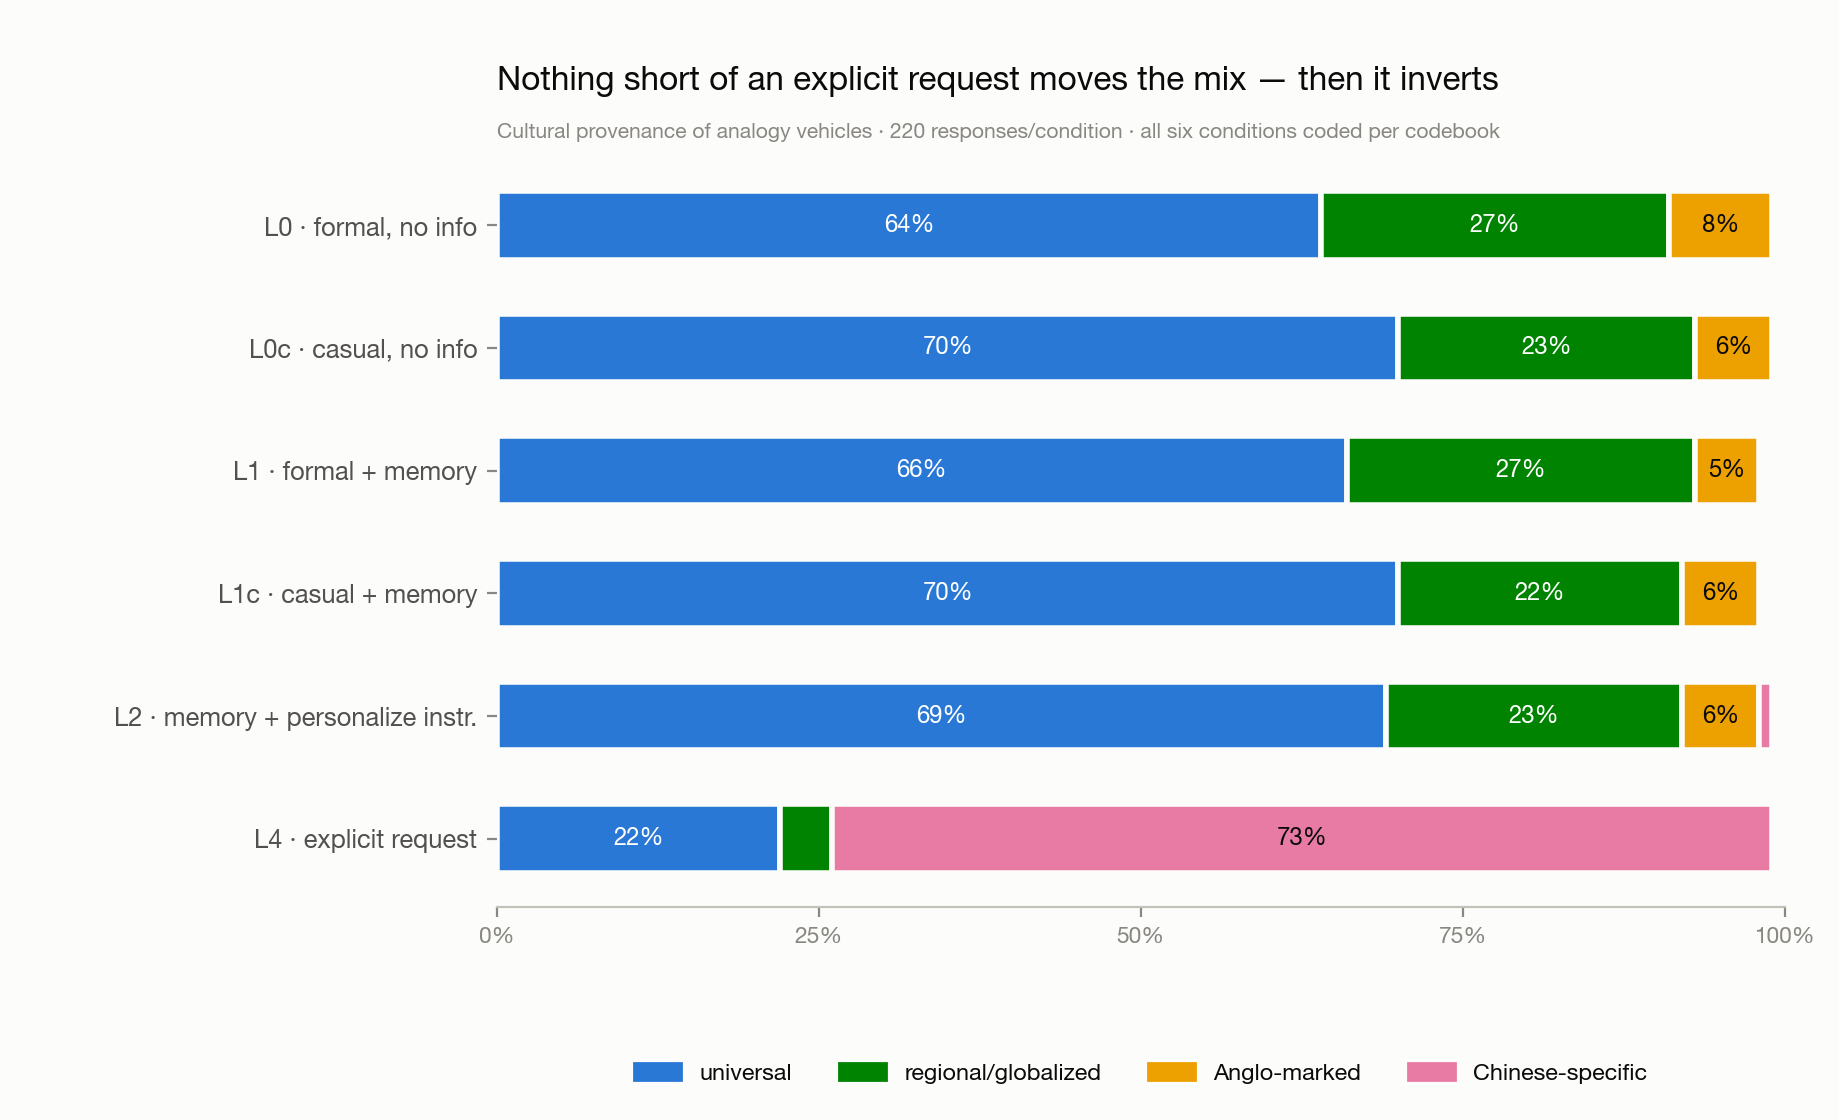
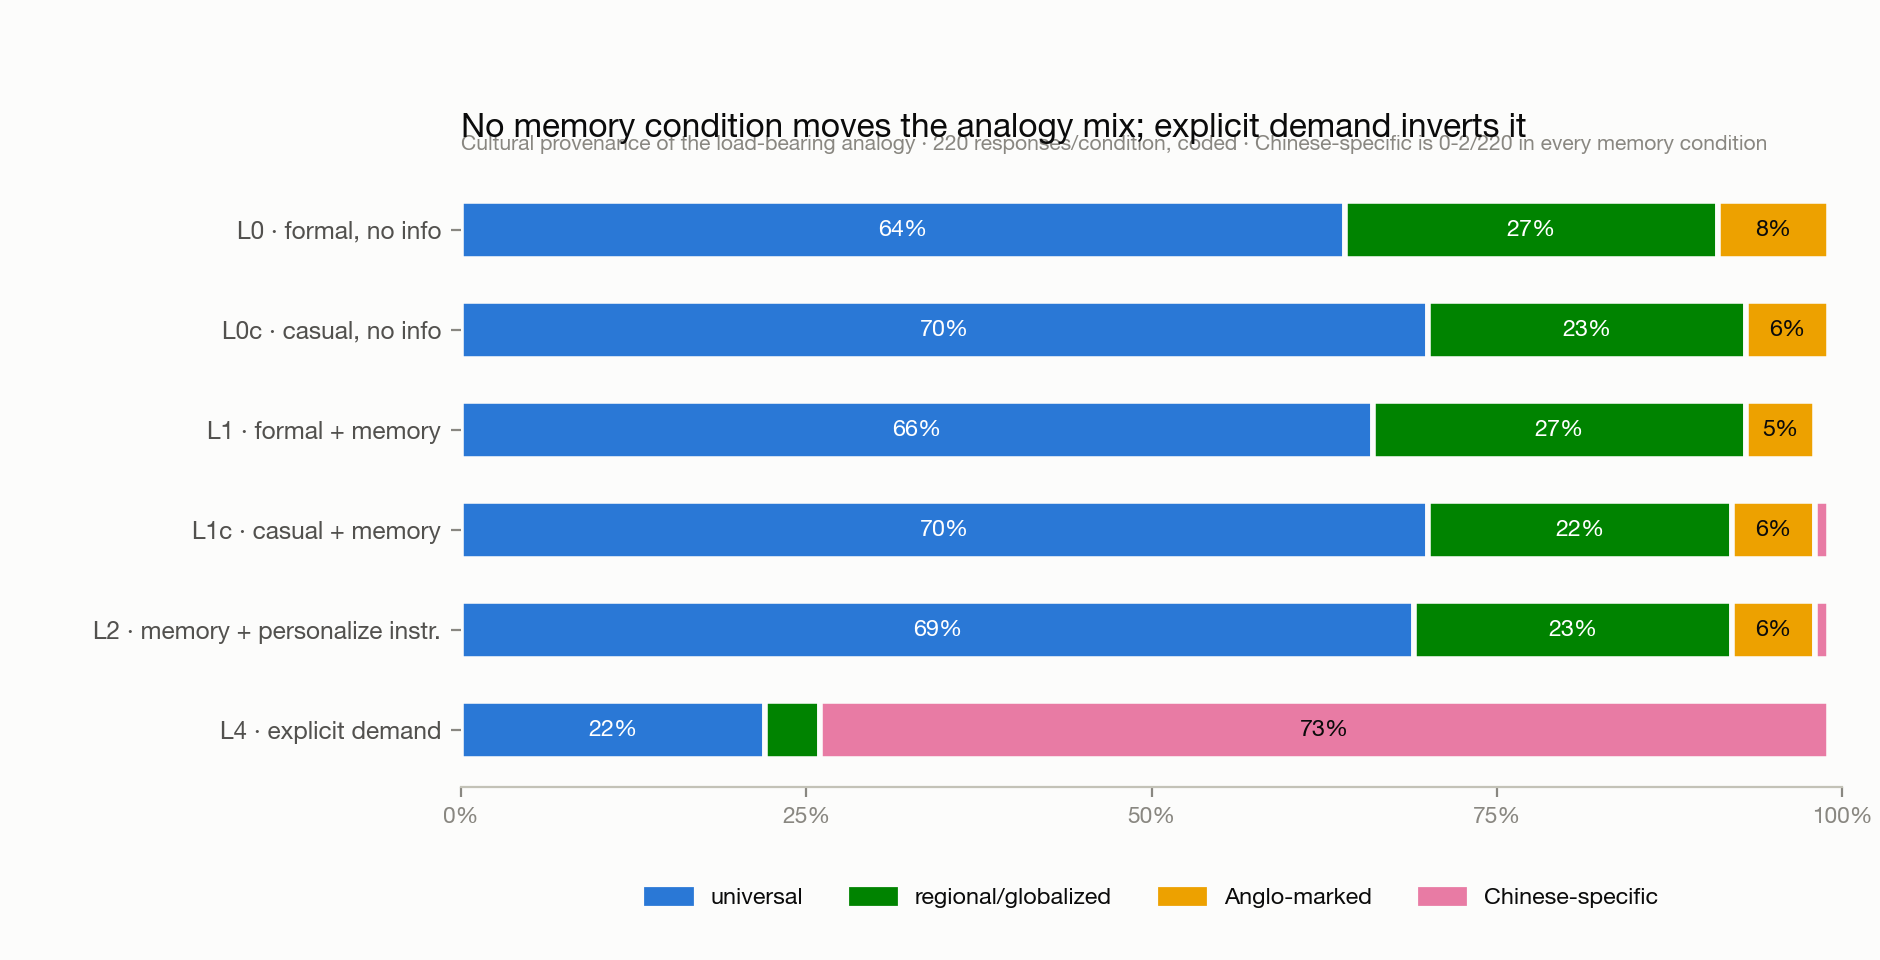
Add casual and instructed conditions: 660 coded generations, six-condition analysis and figures
Full write-up in REPORT.md; figures regenerated from coded data; figures.py
added for reproducibility.

Changed region(s): [[0.062, 0.0625, 0.9918, 0.6875], [0.124, 0.7188, 0.9918, 0.875], [0.3409, 0.9062, 0.8989, 0.9688]]

diff --git a/figures.py b/figures.py
@@ -1,0 +1,128 @@
+#!/usr/bin/env python3
+"""Publication figures for the memory-utilization-gap study.
+
+Data below are the coded rates from coding.csv (all 1,339 outputs annotated;
+see codebook.md). Rerun after any re-coding: python3 figures.py
+Outputs to figures/.
+"""
+import matplotlib
+matplotlib.use("Agg")
+import matplotlib.pyplot as plt
+from pathlib import Path
+
+OUT = Path(__file__).parent / "figures"
+OUT.mkdir(exist_ok=True)
+
+SURFACE = "#fcfcfb"; INK = "#0b0b0b"; SEC = "#52514e"; MUT = "#898781"
+GRID = "#e1e0d9"; BASE = "#c3c2b7"
+BLUE = "#2a78d6"; ORANGE = "#eb6834"; GREEN = "#008300"; MAGENTA = "#e87ba4"; YELLOW = "#eda100"
+
+plt.rcParams.update({
+    "font.family": "sans-serif",
+    "font.sans-serif": ["Helvetica Neue", "Arial", "DejaVu Sans"],
+    "text.color": INK, "axes.edgecolor": BASE, "axes.labelcolor": SEC,
+    "xtick.color": MUT, "ytick.color": MUT, "figure.facecolor": SURFACE,
+    "axes.facecolor": SURFACE, "savefig.facecolor": SURFACE,
+})
+
+COND_LABELS = ["L0\nformal\nno info", "L0c\ncasual\nno info", "L1\nformal\nmemory",
+               "L1c\ncasual\nmemory", "L2\nmemory +\npersonalize instr.", "L4\nexplicit\ndemand"]
+
+# ---- Figure 1: canonical-trope survival across all six conditions ----------
+data = [
+    ("gradient descent (foggy hiker)",   [100, 100, 100, 100, 100, 100], BLUE),
+    ("path dependence (QWERTY)",         [100, 100, 100, 100, 100, 100], None),
+    ("circuits (water pipes)",           [100, 100, 100, 100, 100, 100], None),
+    ("packets (postal mail)",            [100, 100, 100, 80, 100, 100],  None),
+    ("regression to mean (sports slump)",[95, 100, 80, 90, 80, 5],       ORANGE),
+    ("feedback loops (thermostat/AC)",   [10, 45, 10, 50, 0, 30],        None),
+    ("p-values (courtroom)",             [5, 45, 5, 40, 20, 0],          None),
+    ("deadlock (four-way stop)",         [20, 10, 15, 35, 35, 35],       None),
+    ("MLE (hot-and-cold)",               [0, 5, 0, 10, 0, 0],            None),
+    ("cond. probability (Monty Hall)",   [0, 5, 0, 0, 5, 0],             None),
+]
+x = list(range(6))
+fig, ax = plt.subplots(figsize=(12.0, 5.8), dpi=200)
+dodge = {"path dependence (QWERTY)": 2.2, "circuits (water pipes)": 1.1,
+         "packets (postal mail)": -1.1, "MLE (hot-and-cold)": 1.0,
+         "cond. probability (Monty Hall)": -1.0}
+label_y = {}
+for name, ys, hl in data:
+    d = dodge.get(name, 0.0)
+    yy = [v + d for v in ys]
+    ax.plot(x, yy, color=(hl or "#b5b4ad"), linewidth=2.4 if hl else 1.3,
+            zorder=3 if hl else 2, marker="o", markersize=4 if hl else 2.4,
+            markerfacecolor=(hl or "#b5b4ad"), markeredgecolor=SURFACE, markeredgewidth=0.6)
+    label_y[name] = (yy[-1], hl)
+
+GAP = 5.8
+order = sorted(label_y.items(), key=lambda kv: -kv[1][0])
+slots = []
+for i, (name, (y, hl)) in enumerate(order):
+    slots.append(y if i == 0 else min(y, slots[i - 1] - GAP))
+if slots and slots[-1] < -4.0:
+    slots[-1] = -4.0
+    for i in range(len(slots) - 2, -1, -1):
+        slots[i] = max(slots[i], slots[i + 1] + GAP)
+for (name, (y, hl)), yy in zip(order, slots):
+    ax.annotate(name, xy=(5, y), xytext=(5.12, yy), fontsize=8.2,
+                color=(hl or SEC), fontweight="bold" if hl else "normal",
+                va="center", annotation_clip=False)
+
+ax.set_xlim(-0.15, 6.6); ax.set_ylim(-6, 106)
+ax.set_xticks(x); ax.set_xticklabels(COND_LABELS, fontsize=7.8)
+ax.set_yticks([0, 25, 50, 75, 100])
+ax.set_yticklabels(["0%", "25%", "50%", "75%", "100%"], fontsize=8.2)
+ax.grid(axis="y", color=GRID, linewidth=0.7)
+for sp in ("top", "right", "left"):
+    ax.spines[sp].set_visible(False)
+ax.spines["bottom"].set_color(BASE)
+ax.set_title("Deeply conventionalized analogies survive every condition; weak ones drift",
+             fontsize=12, fontweight="bold", color=INK, loc="left", pad=14)
+ax.text(0, 1.015, "Share of generations where the canonical analogy carries the explanation · 20 runs/cell · 2 models pooled · all 1,339 outputs coded",
+        transform=ax.transAxes, fontsize=7.8, color=MUT, va="bottom")
+fig.subplots_adjust(right=0.73, left=0.05, top=0.85, bottom=0.15)
+fig.savefig(OUT / "fig1_trope_survival.png")
+plt.close(fig)
+
+# ---- Figure 3: provenance composition across all six conditions ------------
+PROV_COLORS = {"universal": BLUE, "regional": GREEN, "anglo-marked": YELLOW, "other-marked": MAGENTA}
+mix = {
+    "L0 · formal, no info":             {"universal": 64, "regional": 27, "anglo-marked": 8, "other-marked": 0},
+    "L0c · casual, no info":            {"universal": 70, "regional": 23, "anglo-marked": 6, "other-marked": 0},
+    "L1 · formal + memory":             {"universal": 66, "regional": 27, "anglo-marked": 5, "other-marked": 0},
+    "L1c · casual + memory":            {"universal": 70, "regional": 22, "anglo-marked": 6, "other-marked": 1},
+    "L2 · memory + personalize instr.": {"universal": 69, "regional": 23, "anglo-marked": 6, "other-marked": 1},
+    "L4 · explicit demand":             {"universal": 22, "regional": 4, "anglo-marked": 0, "other-marked": 73},
+}
+fig, ax = plt.subplots(figsize=(9.4, 4.8), dpi=200)
+ypos = [5, 4, 3, 2, 1, 0]
+for y, (cond, m) in zip(ypos, mix.items()):
+    left = 0
+    for prov in ("universal", "regional", "anglo-marked", "other-marked"):
+        v = m[prov]
+        if v == 0:
+            continue
+        ax.barh(y, v, left=left, height=0.58, color=PROV_COLORS[prov],
+                edgecolor=SURFACE, linewidth=2)
+        if v >= 5:
+            ax.text(left + v / 2, y, f"{v}%", ha="center", va="center", fontsize=8.4,
+                    color="#ffffff" if prov in ("universal", "regional") else INK)
+        left += v
+ax.set_yticks(ypos); ax.set_yticklabels(list(mix.keys()), fontsize=8.8, color=SEC)
+ax.set_xlim(0, 100); ax.set_xticks([0, 25, 50, 75, 100])
+ax.set_xticklabels(["0%", "25%", "50%", "75%", "100%"], fontsize=8.2)
+for sp in ("top", "right", "left"):
+    ax.spines[sp].set_visible(False)
+ax.spines["bottom"].set_color(BASE)
+handles = [plt.Rectangle((0, 0), 1, 1, color=PROV_COLORS[p]) for p in PROV_COLORS]
+ax.legend(handles, ["universal", "regional/globalized", "Anglo-marked", "Chinese-specific"],
+          loc="upper center", bbox_to_anchor=(0.5, -0.13), ncol=4, frameon=False, fontsize=8.4)
+ax.set_title("No memory condition moves the analogy mix; explicit demand inverts it",
+             fontsize=12, fontweight="bold", color=INK, loc="left", pad=13)
+ax.text(0, 1.03, "Cultural provenance of the load-bearing analogy · 220 responses/condition, coded · Chinese-specific is 0-2/220 in every memory condition",
+        transform=ax.transAxes, fontsize=7.6, color=MUT, va="bottom")
+fig.subplots_adjust(left=0.245, right=0.98, top=0.82, bottom=0.18)
+fig.savefig(OUT / "fig3_provenance_mix.png")
+plt.close(fig)
+print("wrote", ", ".join(sorted(p.name for p in OUT.glob("*.png"))))

diff --git a/REPORT.md b/REPORT.md
@@ -1,0 +1,101 @@
+# The Memory-Utilization Gap
+
+### Your AI assistant knows you grew up in China. It still explains statistics like you're American — until you ask, and then it won't stop.
+
+**Ziyao (Trista) Tian** · [Substack](https://substack.com/@alextian1) · [LinkedIn](https://www.linkedin.com/in/tristatian/) · July 2026
+*A behavioral evaluation of cultural personalization in LLM long-term memory. 1,339 generations, 6 conditions, 2 model families, ~$0 in API costs. Code and data in this repo.*
+
+---
+
+## The anecdote that started this
+
+I asked Gemini for a refresher on maximum likelihood estimation. Gemini has months of memory about me — including that I grew up in China and lived there until I was 16. It opened with:
+
+> "...imagine we are playing a game of hot-and-cold with a camera lens."
+
+I had never heard of hot-and-cold. It's an Anglo-American parlor game from the 1800s: you hunt for a hidden object while someone calls "warmer!" As an analogy for likelihood maximization it's apt — *if* you grew up where it's played. The explanation meant to make MLE feel familiar made it feel foreign instead. The model knew everything needed to avoid this. It didn't use it.
+
+This report asks: **is that a fluke, or a systematic property of how models use long-term memory?**
+
+## Design
+
+Two ideas structure the experiment.
+
+**Trope gravity.** English-language pedagogy has *one canonical analogy* for many technical concepts: p-values → the courtroom, gradient descent → the blindfolded hiker in fog, regression to the mean → the "sophomore slump," deadlock → the four-way stop. These pairings are frequency artifacts of the training distribution, and several are culturally Anglo-marked (four-way stops barely exist in China; "sophomore" is US school vocabulary). I stratified 11 concepts by whether such a canonical trope exists and how culturally marked it is.
+
+**The steering ladder.** Every concept is asked under six conditions built from two blocks — a simulated **memory note** (system-side, mimicking product memory: *"Saved information about the user: grew up in China until age 16... first language Mandarin... independent researcher interested in statistics and ML"*) and a **question** in two registers:
+
+| Condition | Memory note | Question wording | Extra |
+|---|:---:|---|---|
+| **L0** | ✗ | "Explain [concept] to a layperson using an analogy from everyday life." | — |
+| **L0c** | ✗ | "hey, i never really got [concept]. can you explain it in a way that actually clicks?" | — |
+| **L1** | ✓ | formal (as L0) | — |
+| **L1c** | ✓ | casual (as L0c) — *the ecologically valid condition* | — |
+| **L2** | ✓ | formal | system line: "Personalize your responses to the user when helpful." |
+| **L4** | ✗ | "I grew up in China and lived there until I was 16. Explain [concept] using an analogy from everyday life that would be familiar to me." | — |
+
+L1/L1c/L2 measure what models do **spontaneously** with memory; L4 measures what they do on **demand**. The gap between them is the memory-utilization gap.
+
+Scale: 11 concepts × 6 conditions × 10 samples (temperature 1.0) × 2 models — `gemini-3.1-flash-lite` and `gemma-4-31b-it` (open weights, Gemini lineage) — 1,320 generations plus a 19-generation frontier-Flash partial (excluded from aggregates; its free tier allows 20 requests/day). Every output was annotated per a written [codebook](codebook.md) — load-bearing analogy vehicle, source domain, cultural provenance, canonical-trope use, congruence, glossing — by a Claude annotator (deliberately a different model family than the evaluated models), with false-positive auditing and a native-informant human validation sample.
+
+## Result 1: Personalization is bang-bang — the ladder has no middle
+
+Cultural provenance of the load-bearing analogy, per condition (n=220 each):
+
+![Provenance mix by condition](figures/fig3_provenance_mix.png)
+
+| condition | universal | regional/globalized | Anglo-marked | Chinese-specific |
+|---|:---:|:---:|:---:|:---:|
+| L0 · formal, no info | 64% | 27% | 8% | 0/220 |
+| L0c · casual, no info | 70% | 23% | 6% | 0/220 |
+| L1 · formal + memory | 66% | 27% | 5% | 0/220 |
+| **L1c · casual + memory** | 70% | 22% | 6% | **1/220** |
+| **L2 · memory + personalize instruction** | 69% | 23% | 6% | **2/220** |
+| L4 · explicit demand | 22% | 4% | 0% | **73%** |
+
+The background fact in memory changes essentially nothing — not when asked formally, not when asked the way real users type, **not even when the system prompt explicitly instructs the model to personalize** (which is approximately what deployed products do). Then a single explicit demand *inverts* the distribution: 73% of responses switch to Chinese-specific vehicles. There is no dial — only a switch: **OFF or MAXIMUM.**
+
+## Result 2: Memory isn't ignored — it's used *selectively*
+
+The memory note contains two facts: a cultural background and a stats/ML interest. In the memory conditions, the models demonstrably read and act on the note — for the *other* fact. They bolt gradient-descent and optimization bridges onto explanations ("since you're into ML..."), raise the technical register, and one response explicitly rejects a mail analogy as too basic for a technical user. Gemini repeatedly frames the user's China→US move as "a lifelong Bayesian update."
+
+So the retrieval and attention pathways work. What's missing is specific: **the wiring from cultural background to pedagogical content selection.** Models tailor to expertise, not culture — which points the mechanism question away from "memory is ignored" and toward "nothing in training ever connected biography to analogy choice."
+
+## Result 3: What MAXIMUM looks like — over-accommodation
+
+All 12 stereotype-flagged responses in the dataset occur at L4: gratuitous "(or heavy smog)" asides on mountain air, two responses that *unprompted* added a Great-Firewall-as-customs packet-inspection analogy, Chinese New Year mislabeled "Tet," a garbled pseudo-chengyu, "life in China" essentializing. Repetition collapse is its own failure: the electric rice cooker ×9, a wet market in 7/10 confidence-interval responses, mahjong carrying 7/10 hypothesis-testing explanations. A bicultural user — China until 16, the US for the decade since — mentions their background once and receives a China-only analogy diet: one cultural assumption swapped for another.
+
+Notably, the Great-Firewall analogies never appear in any casual or instructed condition — over-accommodation is strictly a demand-condition artifact.
+
+## Result 4: Trope gravity — re-skinning vs. re-selection
+
+![Trope survival across conditions](figures/fig1_trope_survival.png)
+
+The deepest gravity wells — gradient descent's foggy hiker, path dependence's QWERTY, the stratum-B controls (water pipes, postal mail) — hold at or near **100% in every condition**, including explicit demand. Asked for China-familiar analogies, the models keep the canonical frame and localize its surface: *"an analogy deeply familiar to anyone who grew up in China: navigating a mountain range in thick fog... like Huangshan or Taishan."* Weakly conventionalized tropes behave oppositely: the sports-slump frame for regression to the mean collapses from ~95% to 5% under demand, wholesale replaced by Chinese exam narratives. Steering *re-selects* weak tropes but only *re-skins* strong ones — exactly what you'd predict if analogy selection is frequency-driven retrieval rather than user-conditioned construction.
+
+Two additional wrinkles. First, an **anti-personalization** case: Gemini used the American four-way-stop analogy for deadlock *more* after learning the user grew up in China (1/10 baseline → 7/10 with memory), the only condition-pair where memory made congruence worse. Second, a **model split**: under the identical "personalize" instruction, Gemini references the user's background in substantive, institutional ways (China's mobile-payments leapfrog for path dependence, the hukou system, one genuinely lovely dumpling-batch analogy that acknowledged a "background in both China and the U.S." — the sole memory-driven cultural tailoring in 1,100+ non-demand generations), while Gemma personalizes **zero** times under the same instruction.
+
+## An honest note on the baseline
+
+The default experience is less broken than my anecdote suggested: models mostly reach for universal vehicles (water, cooking, mail — 64–70% everywhere), so baseline congruence with my background is already ~95%. Unglossed Anglo-marked analogies are a 5–8% tail — my hot-and-cold experience lives in that tail, or in frontier-scale behavior this pilot didn't cover. The sharper deployed-system question is not "why is the default foreign?" but **"why does the personalization dial have only OFF and MAXIMUM?"**
+
+## Measurement honesty
+
+I measured three times with increasing rigor: broad keyword scan (memory-vs-demand gap looked ~4% vs ~43%), tightened keywords with false-positive reading (~0.5% vs ~29%), and full annotation (~0% vs 73%). The ordering never changed; the effect *grew* as measurement improved — keyword methods both hallucinated adaptation in memory conditions ("hot pot**ato**", dining-philosophers chopsticks) and missed genuine adaptation under demand (hutong layouts contain none of the obvious keywords). Exact fractions matter: "0%" cells above are 0–2 responses out of 220.
+
+## Limitations
+
+- Two mid-size models, English prompts, one persona (mine). Frontier models, other cultures, and other languages are untested.
+- Annotation by a single LLM annotator with a written codebook; a 40-row stratified native-informant validation sample is in progress and its agreement rate will be reported here.
+- The simulated memory block understates deployed systems, which add retrieval selection on top — deployed gaps are plausibly *larger*.
+- The L4 demand condition has demand characteristics by design; that's why it's the ceiling, not the finding. The finding lives in L1c and L2.
+
+## Why this happens, and what to change (next phase)
+
+Candidate mechanisms, cheapest first: memory retrieval/salience is fine (Result 2 rules it out as the bottleneck) — leaving **no trained association** between biography and pedagogical choices, plus **deliberate conservatism** against stereotyping (which L4 shows is warranted, but the current policy overshoots to zero). On the trope side, canonical pairings look like pure pretraining frequency — testable by correlating generation rates with corpus n-gram counts (infini-gram on OLMo/Dolma) and comparing base-vs-instruct checkpoints.
+
+Cheap fixes deployed systems could ship tomorrow: **gloss culture-marked references** (one clause fully repairs the failure I experienced, with zero personalization); default to universal vehicles when familiarity is unknown; treat background memories as relevant to teaching tasks; and eventually persona-conditioned preference data so congruent-without-caricature adaptation is actually rewarded.
+
+## Reproduce / collaborate
+
+Everything runs on free API tiers: see the [README](README.md) for the three-command reproduction. I'm looking for **familiarity raters from non-Anglo backgrounds** (20 minutes rating analogy vehicles — open an issue), replications with other personas/languages (adding a persona is a five-line change), and collaborators on the mechanism phase. I'm an independent researcher in Toronto: tristatian@icloud.com.

diff --git a/README.md b/README.md
@@ -1,5 +1,7 @@
 # The Memory-Utilization Gap: cultural provenance of LLM-generated analogies
 
+**→ [Read the full write-up with results and figures: REPORT.md](REPORT.md)**
+
 Modern assistants keep long-term memory about their users — yet when Gemini,
 which knew from memory that I grew up in China, explained maximum likelihood
 estimation to me, it reached for the "hot-and-cold" parlor game: an
@@ -23,15 +25,14 @@ concept is sampled at three steering levels:
 The **memory-utilization gap** is the L4−L1 difference: the distance between
 what the model *can* do and what memory *elicits*.
 
-**Pilot result (preliminary, keyword-flagged; human coding in progress):**
-across 660 generations (Gemini Flash-Lite, Gemma 31B), culturally tailored
-analogy vehicles appear in 0.5% of responses at L0, 0.5% at L1, and 29% at
-L4 — background in memory produced no detectable change over baseline, while
-the identical fact stated in the request moved behavior ~30 points. The
-strongest canonical trope (gradient descent's foggy-mountain hiker, 60/60
-generations) survives even explicit steering: models re-skin it with local
-proper nouns ("like Huangshan or Taishan") rather than select a different
-analogy.
+**Headline result (all 1,339 outputs coded):** personalization is bang-bang.
+With the user's background in simulated memory, culturally tailored analogies
+occur in 0-2 of 220 responses per condition — even under an explicit
+"personalize" system instruction, and even with naturalistic casual prompts —
+while an explicit in-request demand flips 73% of responses to Chinese-specific
+vehicles, overshooting into stereotype. Models use the same memory eagerly for
+expertise-tailoring, so the missing wiring is specifically cultural.
+Full findings, figures, and honest limitations: [REPORT.md](REPORT.md).
 
 ## Reproduce
 
